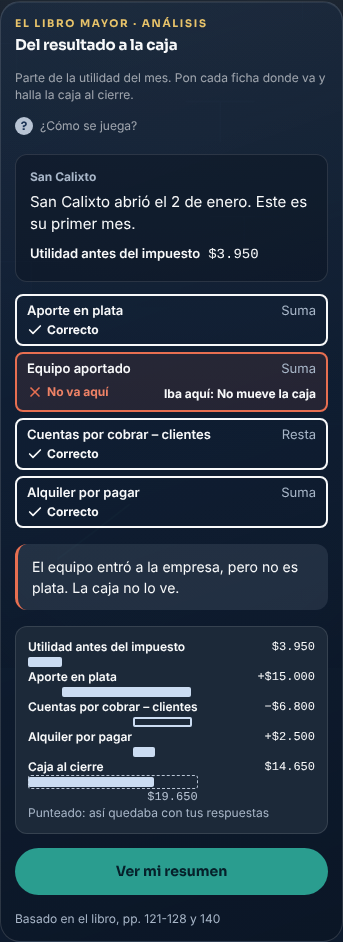
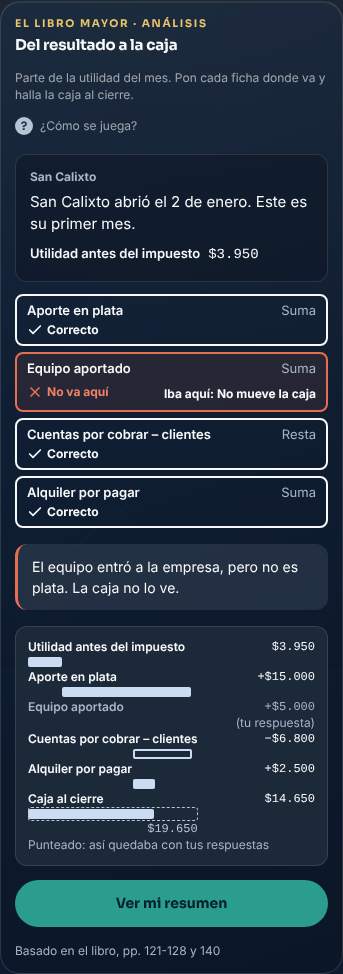
T3 · «Del resultado a la caja» (#557): medidas nuevas, capturas que faltaban y las dos de PE
Claude-Session: https://claude.ai/code/session_01EhXrNAwHXfR1vGZDHFzJBY

diff --git a/src/components/mecanicas/libros/tema3/ResultadoCaja.jsx b/src/components/mecanicas/libros/tema3/ResultadoCaja.jsx
@@ -230,8 +230,13 @@ export function Puente({ caso, suya, respuestas = null, armar = true }) {
           return (
             <div key={f.id} data-renglon-tenue={f.id} style={{ "--k": k, minHeight: "30px", boxSizing: "border-box" }}>
               <div style={{ display: "flex", justifyContent: "space-between", alignItems: "flex-start", gap: "8px", minHeight: "16px" }}>
-                <span style={{ minWidth: 0, fontFamily: INTER, fontSize: "12px", lineHeight: "16px", fontWeight: 600, color: C.apagado }}>{f.nombre}</span>
-                <span data-cifra-tenue style={{ ...CIFRA, flex: "none", fontSize: "12px", lineHeight: "16px", color: C.apagado }}>{conSigno(f.signo, f.monto)} {TU_RESPUESTA}</span>
+                <span style={{ flex: "1 1 auto", minWidth: 0, fontFamily: INTER, fontSize: "12px", lineHeight: "16px", fontWeight: 600, color: C.apagado }}>{f.nombre}</span>
+                {/* La cifra y, debajo, «(tu respuesta)»: así el nombre no se aprieta a 320 y el renglón mide lo mismo en A y en B. */}
+                <span data-cifra-tenue style={{ flex: "none", display: "flex", flexDirection: "column", alignItems: "flex-end", color: C.apagado }}>
+                  <span data-monto-tenue style={{ ...CIFRA, whiteSpace: "nowrap", fontSize: "12px", lineHeight: "16px", color: C.apagado }}>{conSigno(f.signo, f.monto)}</span>
+                  {" "}
+                  <span style={{ whiteSpace: "nowrap", fontFamily: INTER, fontSize: "12px", lineHeight: "16px", color: C.apagado }}>{TU_RESPUESTA}</span>
+                </span>
               </div>
             </div>
           );

diff --git a/orquestador/revisiones/t3-del-resultado-a-la-caja/medidas.md b/orquestador/revisiones/t3-del-resultado-a-la-caja/medidas.md
@@ -1,6 +1,6 @@
 # «Del resultado a la caja» · medidas (Chromium, Inter y Sora de @fontsource 5.3.0)
 
-Salida de `node --import ./scripts/cargador-jsx.mjs scripts/t3/medir-resultado-caja.mjs orquestador/revisiones/t3-del-resultado-a-la-caja`, 2026-10-24 20:30 (Bogotá). Las alturas van en px; «desde el Panel» es desde la parte de arriba del Panel de la actividad.
+Salida de `node --import ./scripts/cargador-jsx.mjs scripts/t3/medir-resultado-caja.mjs orquestador/revisiones/t3-del-resultado-a-la-caja`, 2026-10-24 22:09 (Bogotá), con las correcciones de Kamogawa en #557 (la leyenda en sus tres casos y el renglón tenue). Las alturas van en px; «desde el Panel» es desde la parte de arriba del Panel de la actividad.
 
 fuentes: Inter y Sora de @fontsource 5.3.0
 | Ancho | Versión | Estado | Encabezado | Ficha del caso | Ranura (desde el Panel) | Tarjeta | Útil / tarjeta por dentro | Botones | Renglones | Puente | Tramo menor | Contraste mín. texto | Contorno reposo |
@@ -11,23 +11,33 @@ fuentes: Inter y Sora de @fontsource 5.3.0
 | 320 | A | todas, con «Comprobar» | 137.3 | 144.0 | 309.3–421.3 | — (— l.) | 258 / — | — | 44 44 44 44 | — | — | 5.06 | — |
 | 320 | A | bien | 137.3 | 144.0 | — | — (— l.) | 258 / — | — | 52 52 52 52 | 176.0 | 17.4 | 5.06 | — |
 |  |  | ↳ bien: pista 232.0 px, punteado ninguno, cifra de sus respuestas —, renglones 52 52 52 52 |
+|  |  | ↳ leyenda: ninguna; renglón tenue: ninguno |
 | 320 | A | resumen | — | — | — | — (— l.) | 258 / — | — | — | 176.0 | 17.4 | 4.63 | — |
-| 320 | A | mal (punteado) | 137.3 | 144.0 | — | — (— l.) | 258 / — | — | 52 80 52 52 | 224.0 | 17.4 | 5.06 | — |
+| 320 | A | mal (punteado) | 137.3 | 144.0 | — | — (— l.) | 258 / — | — | 52 80 52 52 | 256.0 | 17.4 | 5.06 | — |
 |  |  | ↳ mal: pista 232.0 px, punteado 137.1 px, cifra de sus respuestas $19.650, renglones 52 80 52 52 |
-| 320 | A | mal (caja negativa, A7) | 137.3 | 144.0 | — | — (— l.) | 258 / — | — | 60 52 52 52 | 224.0 | 17.4 | 5.06 | — |
+|  |  | ↳ leyenda: «Punteado: así quedaba con tus respuestas» (32.0 px); renglón tenue: «Equipo aportado +$5.000 (tu respuesta)» (32.0 px, nombre en 1 l., cifra en 2 l.) |
+| 320 | A | mal (caja negativa, A7) | 137.3 | 144.0 | — | — (— l.) | 258 / — | — | 60 52 52 52 | 192.0 | 17.4 | 5.06 | — |
 |  |  | ↳ negativa: pista 232.0 px, punteado ninguno, cifra de sus respuestas −$350, renglones 60 52 52 52 |
-| 320 | A | mal (cuadra con errores, A6) | 137.3 | 144.0 | — | — (— l.) | 258 / — | — | 52 80 52 60 | 176.0 | 17.4 | 5.06 | — |
+|  |  | ↳ leyenda: «Con tus respuestas, la caja daba −$350» (16.0 px); renglón tenue: ninguno |
+| 320 | A | mal (cuadra con errores, A6) | 137.3 | 144.0 | — | — (— l.) | 258 / — | — | 52 80 52 60 | 208.0 | 17.4 | 5.06 | — |
 |  |  | ↳ cuadra: pista 232.0 px, punteado ninguno, cifra de sus respuestas —, renglones 52 80 52 60 |
+|  |  | ↳ leyenda: ninguna; renglón tenue: «Equipo aportado +$5.000 (tu respuesta)» (32.0 px, nombre en 1 l., cifra en 2 l.) |
 | 320 | B | vacío | 137.3 | 146.0 | 311.3–423.3 | 92.0 (1 l.) | 258 / 234 | 72.7×44 · 72.7×44 · 72.7×44 | — | — | — | 6.99 | 3.01 |
 | 320 | B | a mitad | 137.3 | 146.0 | 311.3–441.3 | 110.0 (2 l.) | 258 / 234 | 72.7×44 · 72.7×44 · 72.7×44 | 44 44 | — | — | 6.99 | 3.01 |
 | 320 | B | todas, con «Comprobar» | 137.3 | 146.0 | 311.3–423.3 | — (— l.) | 258 / — | — | 46 44 44 46 44 44 | — | — | 5.06 | — |
 | 320 | B | bien | 137.3 | 146.0 | — | — (— l.) | 258 / — | — | 52 52 68 52 52 68 | 284.0 | 10.5 | 5.06 | — |
 |  |  | ↳ bien: pista 232.0 px, punteado ninguno, cifra de sus respuestas —, renglones 52 52 68 52 52 68 |
+|  |  | ↳ leyenda: ninguna; renglón tenue: ninguno |
 | 320 | B | resumen | — | — | — | — (— l.) | 258 / — | — | — | 284.0 | 10.5 | 4.63 | — |
-| 320 | B | mal (punteado) | 137.3 | 146.0 | — | — (— l.) | 258 / — | — | 52 52 76 52 52 80 | 332.0 | 10.5 | 5.06 | — |
+| 320 | B | mal (punteado) | 137.3 | 146.0 | — | — (— l.) | 258 / — | — | 52 52 76 52 52 80 | 364.0 | 10.5 | 5.06 | — |
 |  |  | ↳ mal: pista 232.0 px, punteado 165.7 px, cifra de sus respuestas $9.500.000, renglones 52 52 76 52 52 80 |
-| 320 | B | mal (caja negativa, A7) | 137.3 | 146.0 | — | — (— l.) | 258 / — | — | 60 52 68 52 52 68 | 332.0 | 10.5 | 5.06 | — |
+|  |  | ↳ leyenda: «Punteado: así quedaba con tus respuestas» (32.0 px); renglón tenue: «Equipo comprado a crédito +$1.500.000 (tu respuesta)» (32.0 px, nombre en 2 l., cifra en 2 l.) |
+| 320 | B | mal (caja negativa, A7) | 137.3 | 146.0 | — | — (— l.) | 258 / — | — | 60 52 68 52 52 68 | 316.0 | 10.5 | 5.06 | — |
 |  |  | ↳ negativa: pista 232.0 px, punteado ninguno, cifra de sus respuestas −$3.200.000, renglones 60 52 68 52 52 68 |
+|  |  | ↳ leyenda: «Con tus respuestas, la caja daba −$3.200.000» (32.0 px); renglón tenue: ninguno |
+| 320 | B | mal (cuadra con errores, A6) | 137.3 | 146.0 | — | — (— l.) | 258 / — | — | 60 52 76 60 52 68 | 284.0 | 10.5 | 5.06 | — |
+|  |  | ↳ cuadra: pista 232.0 px, punteado ninguno, cifra de sus respuestas —, renglones 60 52 76 60 52 68 |
+|  |  | ↳ leyenda: ninguna; renglón tenue: ninguno |
 |  |  | movimiento reducido a 320, a los 80 ms de «Comprobar»: puente visible, opacidad mínima 1, punteado sí, «Iba aquí» 1 |
 |  |  | «Así se juega» a 375: la demo puso la ficha en Resta y mostró la resolución |
 | 375 | A | vacío | 137.3 | 128.0 | 293.3–405.3 | 92.0 (1 l.) | 313 / 289 | 91.0×44 · 91.0×44 · 91.0×44 | — | — | — | 6.99 | 3.01 |
@@ -35,23 +45,33 @@ fuentes: Inter y Sora de @fontsource 5.3.0
 | 375 | A | todas, con «Comprobar» | 137.3 | 128.0 | 293.3–405.3 | — (— l.) | 313 / — | — | 44 44 44 44 | — | — | 5.06 | — |
 | 375 | A | bien | 137.3 | 128.0 | — | — (— l.) | 313 / — | — | 52 52 52 52 | 176.0 | 21.6 | 5.06 | — |
 |  |  | ↳ bien: pista 287.0 px, punteado ninguno, cifra de sus respuestas —, renglones 52 52 52 52 |
+|  |  | ↳ leyenda: ninguna; renglón tenue: ninguno |
 | 375 | A | resumen | — | — | — | — (— l.) | 313 / — | — | — | 176.0 | 21.6 | 4.63 | — |
-| 375 | A | mal (punteado) | 137.3 | 128.0 | — | — (— l.) | 313 / — | — | 52 60 52 52 | 208.0 | 21.6 | 5.06 | — |
+| 375 | A | mal (punteado) | 137.3 | 128.0 | — | — (— l.) | 313 / — | — | 52 60 52 52 | 240.0 | 21.6 | 5.06 | — |
 |  |  | ↳ mal: pista 287.0 px, punteado 169.6 px, cifra de sus respuestas $19.650, renglones 52 60 52 52 |
-| 375 | A | mal (caja negativa, A7) | 137.3 | 128.0 | — | — (— l.) | 313 / — | — | 60 52 52 52 | 208.0 | 21.6 | 5.06 | — |
+|  |  | ↳ leyenda: «Punteado: así quedaba con tus respuestas» (16.0 px); renglón tenue: «Equipo aportado +$5.000 (tu respuesta)» (32.0 px, nombre en 1 l., cifra en 2 l.) |
+| 375 | A | mal (caja negativa, A7) | 137.3 | 128.0 | — | — (— l.) | 313 / — | — | 60 52 52 52 | 192.0 | 21.6 | 5.06 | — |
 |  |  | ↳ negativa: pista 287.0 px, punteado ninguno, cifra de sus respuestas −$350, renglones 60 52 52 52 |
-| 375 | A | mal (cuadra con errores, A6) | 137.3 | 128.0 | — | — (— l.) | 313 / — | — | 52 60 52 60 | 176.0 | 21.6 | 5.06 | — |
+|  |  | ↳ leyenda: «Con tus respuestas, la caja daba −$350» (16.0 px); renglón tenue: ninguno |
+| 375 | A | mal (cuadra con errores, A6) | 137.3 | 128.0 | — | — (— l.) | 313 / — | — | 52 60 52 60 | 208.0 | 21.6 | 5.06 | — |
 |  |  | ↳ cuadra: pista 287.0 px, punteado ninguno, cifra de sus respuestas —, renglones 52 60 52 60 |
+|  |  | ↳ leyenda: ninguna; renglón tenue: «Equipo aportado +$5.000 (tu respuesta)» (32.0 px, nombre en 1 l., cifra en 2 l.) |
 | 375 | B | vacío | 137.3 | 128.0 | 293.3–405.3 | 92.0 (1 l.) | 313 / 289 | 91.0×44 · 91.0×44 · 91.0×44 | — | — | — | 6.99 | 3.01 |
 | 375 | B | a mitad | 137.3 | 128.0 | 293.3–423.3 | 110.0 (2 l.) | 313 / 289 | 91.0×44 · 91.0×44 · 91.0×44 | 44 44 | — | — | 6.99 | 3.01 |
 | 375 | B | todas, con «Comprobar» | 137.3 | 128.0 | 293.3–405.3 | — (— l.) | 313 / — | — | 44 44 44 44 44 44 | — | — | 5.06 | — |
 | 375 | B | bien | 137.3 | 128.0 | — | — (— l.) | 313 / — | — | 52 52 52 52 52 52 | 236.0 | 12.9 | 5.06 | — |
 |  |  | ↳ bien: pista 287.0 px, punteado ninguno, cifra de sus respuestas —, renglones 52 52 52 52 52 52 |
+|  |  | ↳ leyenda: ninguna; renglón tenue: ninguno |
 | 375 | B | resumen | — | — | — | — (— l.) | 313 / — | — | — | 236.0 | 12.9 | 4.63 | — |
-| 375 | B | mal (punteado) | 137.3 | 128.0 | — | — (— l.) | 313 / — | — | 52 52 60 52 52 60 | 268.0 | 12.9 | 5.06 | — |
+| 375 | B | mal (punteado) | 137.3 | 128.0 | — | — (— l.) | 313 / — | — | 52 52 60 52 52 60 | 300.0 | 12.9 | 5.06 | — |
 |  |  | ↳ mal: pista 287.0 px, punteado 205.0 px, cifra de sus respuestas $9.500.000, renglones 52 52 60 52 52 60 |
-| 375 | B | mal (caja negativa, A7) | 137.3 | 128.0 | — | — (— l.) | 313 / — | — | 60 52 52 52 52 52 | 268.0 | 12.9 | 5.06 | — |
+|  |  | ↳ leyenda: «Punteado: así quedaba con tus respuestas» (16.0 px); renglón tenue: «Equipo comprado a crédito +$1.500.000 (tu respuesta)» (32.0 px, nombre en 1 l., cifra en 2 l.) |
+| 375 | B | mal (caja negativa, A7) | 137.3 | 128.0 | — | — (— l.) | 313 / — | — | 60 52 52 52 52 52 | 252.0 | 12.9 | 5.06 | — |
 |  |  | ↳ negativa: pista 287.0 px, punteado ninguno, cifra de sus respuestas −$3.200.000, renglones 60 52 52 52 52 52 |
+|  |  | ↳ leyenda: «Con tus respuestas, la caja daba −$3.200.000» (16.0 px); renglón tenue: ninguno |
+| 375 | B | mal (cuadra con errores, A6) | 137.3 | 128.0 | — | — (— l.) | 313 / — | — | 60 52 60 60 52 52 | 236.0 | 12.9 | 5.06 | — |
+|  |  | ↳ cuadra: pista 287.0 px, punteado ninguno, cifra de sus respuestas —, renglones 60 52 60 60 52 52 |
+|  |  | ↳ leyenda: ninguna; renglón tenue: ninguno |
 |  |  | movimiento reducido a 375, a los 80 ms de «Comprobar»: puente visible, opacidad mínima 1, punteado sí, «Iba aquí» 1 |
 
 **§10, PARADA · «No mueve la caja» en cada tarjeta:**
@@ -100,11 +120,11 @@ fuentes: Inter y Sora de @fontsource 5.3.0
 | 320 · A · negativa | Paso 3 de 4 | 352.8 | 482.8 | 130.0 | 568 |
 | 320 · A · negativa | Paso 4 de 4 | 352.8 | 464.8 | 112.0 | 568 |
 | 320 · A · negativa | Comprobar | 352.8 | 464.8 | 112.0 | 568 |
-| 320 · A · cuadra | Paso 1 de 4 | 369.8 | 481.8 | 112.0 | 568 |
-| 320 · A · cuadra | Paso 2 de 4 | 369.8 | 481.8 | 112.0 | 568 |
-| 320 · A · cuadra | Paso 3 de 4 | 369.8 | 499.8 | 130.0 | 568 |
-| 320 · A · cuadra | Paso 4 de 4 | 369.8 | 481.8 | 112.0 | 568 |
-| 320 · A · cuadra | Comprobar | 369.8 | 481.8 | 112.0 | 568 |
+| 320 · A · cuadra | Paso 1 de 4 | 352.8 | 464.8 | 112.0 | 568 |
+| 320 · A · cuadra | Paso 2 de 4 | 352.8 | 464.8 | 112.0 | 568 |
+| 320 · A · cuadra | Paso 3 de 4 | 352.8 | 482.8 | 130.0 | 568 |
+| 320 · A · cuadra | Paso 4 de 4 | 352.8 | 464.8 | 112.0 | 568 |
+| 320 · A · cuadra | Comprobar | 352.8 | 464.8 | 112.0 | 568 |
 | 320 · B · bien | Paso 1 de 6 | 384.8 | 496.8 | 112.0 | 568 |
 | 320 · B · bien | Paso 2 de 6 | 384.8 | 496.8 | 112.0 | 568 |
 | 320 · B · bien · devuelta desde la lista | Paso 1 de 6 | 328.8 | 440.8 | 112.0 | 568 |
@@ -127,6 +147,13 @@ fuentes: Inter y Sora de @fontsource 5.3.0
 | 320 · B · negativa | Paso 5 de 6 | 384.8 | 514.8 | 130.0 | 568 |
 | 320 · B · negativa | Paso 6 de 6 | 384.8 | 514.8 | 130.0 | 568 |
 | 320 · B · negativa | Comprobar | 384.8 | 496.8 | 112.0 | 568 |
+| 320 · B · cuadra | Paso 1 de 6 | 384.8 | 496.8 | 112.0 | 568 |
+| 320 · B · cuadra | Paso 2 de 6 | 384.8 | 496.8 | 112.0 | 568 |
+| 320 · B · cuadra | Paso 3 de 6 | 384.8 | 514.8 | 130.0 | 568 |
+| 320 · B · cuadra | Paso 4 de 6 | 384.8 | 514.8 | 130.0 | 568 |
+| 320 · B · cuadra | Paso 5 de 6 | 384.8 | 514.8 | 130.0 | 568 |
+| 320 · B · cuadra | Paso 6 de 6 | 384.8 | 514.8 | 130.0 | 568 |
+| 320 · B · cuadra | Comprobar | 384.8 | 496.8 | 112.0 | 568 |
 | 375 · A · paso 1 tras «Así se juega» | Paso 1 de 4 | 451.8 | 563.8 | 112.0 | 667 |
 | 375 · A · bien | Paso 1 de 4 | 451.8 | 563.8 | 112.0 | 667 |
 | 375 · A · bien | Paso 2 de 4 | 451.8 | 563.8 | 112.0 | 667 |
@@ -171,9 +198,29 @@ fuentes: Inter y Sora de @fontsource 5.3.0
 | 375 · B · negativa | Paso 5 de 6 | 452.8 | 582.8 | 130.0 | 667 |
 | 375 · B · negativa | Paso 6 de 6 | 452.8 | 582.8 | 130.0 | 667 |
 | 375 · B · negativa | Comprobar | 452.8 | 564.8 | 112.0 | 667 |
+| 375 · B · cuadra | Paso 1 de 6 | 452.8 | 564.8 | 112.0 | 667 |
+| 375 · B · cuadra | Paso 2 de 6 | 452.8 | 564.8 | 112.0 | 667 |
+| 375 · B · cuadra | Paso 3 de 6 | 452.8 | 582.8 | 130.0 | 667 |
+| 375 · B · cuadra | Paso 4 de 6 | 452.8 | 582.8 | 130.0 | 667 |
+| 375 · B · cuadra | Paso 5 de 6 | 452.8 | 582.8 | 130.0 | 667 |
+| 375 · B · cuadra | Paso 6 de 6 | 452.8 | 582.8 | 130.0 | 667 |
+| 375 · B · cuadra | Comprobar | 452.8 | 564.8 | 112.0 | 667 |
 
 Compartido, no de esta pieza (se informa, no falla):
 LETRA 11.5px span «?» (compartido)
 LETRA 11px p «RESULTADO» (compartido)
 
 Todo cumple a 320 y 375 en A y B: la ranura entera en la ventana en cada paso, «No mueve la caja» sin cortes, tramo menor ≥ 4 px, sin barra, nada se sale, nada bajo 12 px, toques ≥ 44, texto ≥ 4,5:1 y contorno ≥ 3:1.
+
+## Pensamiento Estratégico (etiquetasItem.js y subjects.js son compartidos)
+
+Salida de `node --import ./scripts/cargador-jsx.mjs scripts/t3/capturas-pe-resultado-caja.mjs`, 2026-10-24 22:09 (Bogotá), sobre `dist` con Supabase falso, servido en el 8099, con la sesión fingida.
+
+| Ancho | Captura | Lo que se ve | | | | |
+|---|---|---|---|---|---|---|
+| 320 | (a) panel docente, «Radar de profundidad» | 6 de 6 ítems con su enunciado | ids crudos: ninguno | aviso «no se pudo nombrar»: no | barra: no | errores: 0 |
+| 320 | (b) temas de PE | 3 de 3 temas en pantalla (Pensamiento Sistémico, Modelo del Iceberg, Fuerzas de Porter) | queda «Cargando…»: no | — | barra: no | errores: 0 |
+| 375 | (a) panel docente, «Radar de profundidad» | 6 de 6 ítems con su enunciado | ids crudos: ninguno | aviso «no se pudo nombrar»: no | barra: no | errores: 0 |
+| 375 | (b) temas de PE | 3 de 3 temas en pantalla (Pensamiento Sistémico, Modelo del Iceberg, Fuerzas de Porter) | queda «Cargando…»: no | — | barra: no | errores: 0 |
+
+PE cumple a 320 y 375: los ítems de «Radar de profundidad» salen con su enunciado y la lista de temas carga entera.
